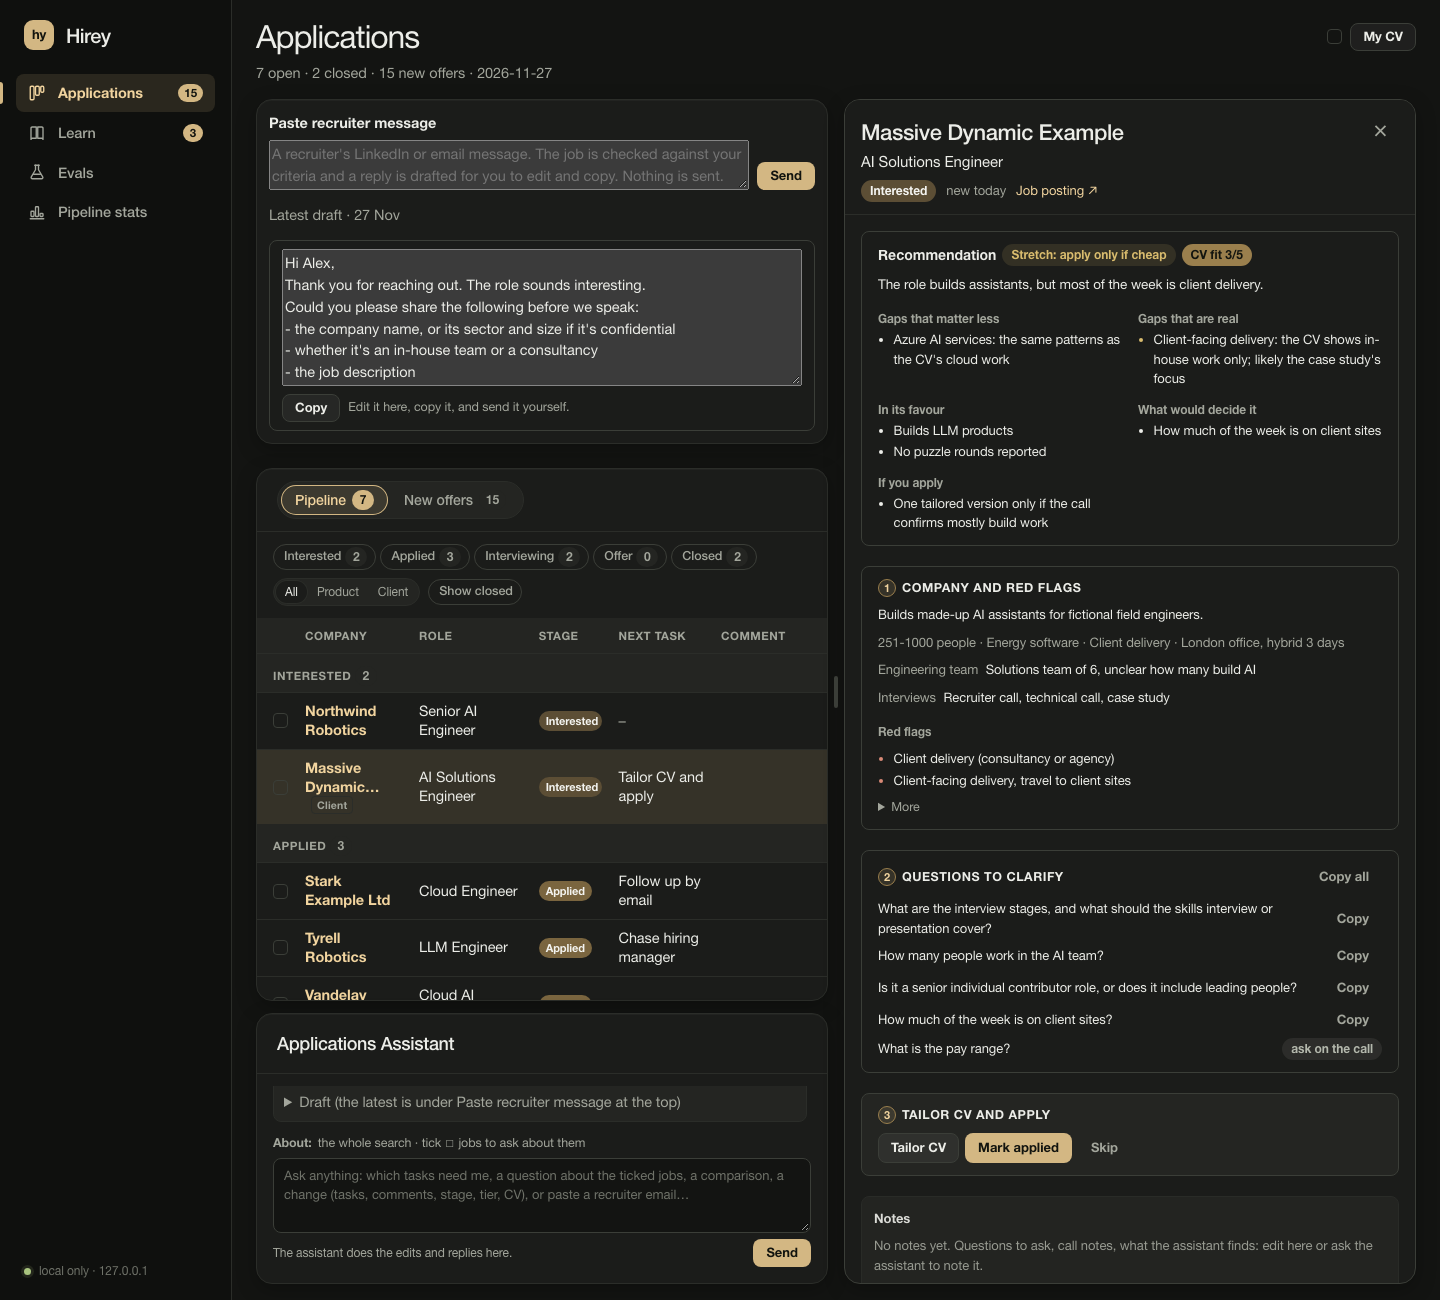
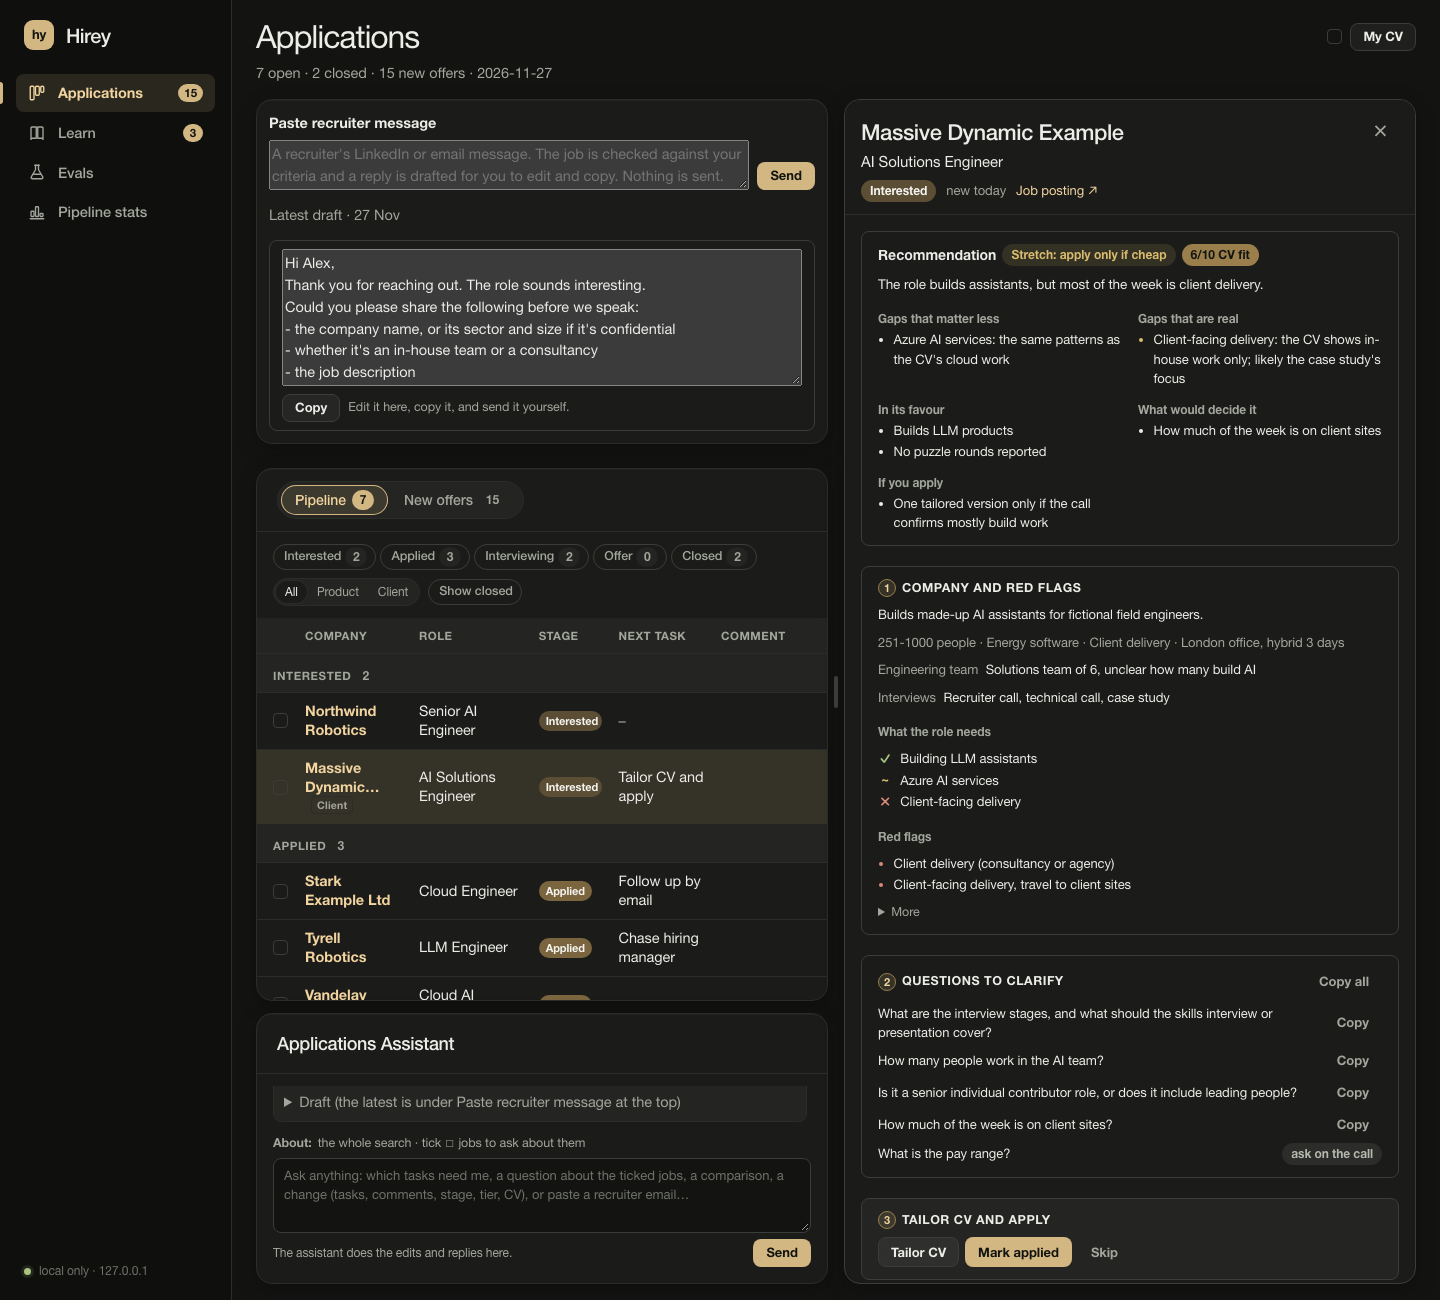
Panel: CV fit out of 10 everywhere; What the role needs as a ✓ / ~ / ✗ checklist
- The panel's fit badges read "8/10 CV fit" (Hirey's 1-5 doubled, as the lists); the 1-5 stays in
  the fit file and cv_fits.
- The fit file's Recommendation gets "### What the role needs": each must-have marked ✓ have,
  ~ partly or ✗ not yet (research.read_need). Section 1 shows it as a checklist; until the fit
  marks them, the brief's must-haves stay plain items.
- Research skill, docs, example data and the two panel screenshots updated.

diff --git a/prep/static/style.css b/prep/static/style.css
@@ -627,6 +627,11 @@ main:has(.apps) { max-width: 1880px; }
 .decide h4 { margin: var(--space-2) 0 0; font-size: 12px; font-weight: 650; color: var(--text-muted); }
 .decide .label { color: var(--text-muted); margin-right: 4px; }
 .decide .needs { margin: 0; padding-left: 1.2em; display: grid; gap: 2px; }
+.decide .needs li.has-mark { list-style: none; margin-left: -1.2em; display: flex; gap: 8px; }
+.need-mark { flex: none; width: 1.1em; text-align: center; font-weight: 700; }
+.need-have { color: var(--success); }
+.need-partly { color: var(--warning); }
+.need-not { color: var(--danger); }
 .decide .flags { margin: 0; padding-left: 1.2em; display: grid; gap: 2px; }
 .decide .flags li::marker { color: var(--danger); }
 .decide .questions { list-style: none; margin: 0; padding: 0; display: grid; gap: 4px; }

diff --git a/prep/web.py b/prep/web.py
@@ -2268,7 +2268,8 @@ def _offer_panel(settings: Settings, conn: sqlite3.Connection, job: dict, decisi
         f'<a class="panel-close btn btn-ghost btn-sm" href="{h(close)}" aria-label="Close" data-close-panel>✕</a></span></header>'
         '<div class="panel-body">'
         + _recommendation(fit, busy)
-        + _decide_company(profile, check, kind, brief, flags, busy, _fit_line(fit, busy and fit is None), more)
+        + _decide_company(profile, check, kind, brief, flags, busy, _fit_line(fit, busy and fit is None), more,
+                          _marked_needs(fit))
         + _decide_questions(decision_.call_questions(profile, gates, brief["facts"] if brief else ""),
                             f'j{job["id"]}', copy=False)
         + apply
@@ -2954,7 +2955,7 @@ def _panel(settings: Settings, conn: sqlite3.Connection, r: dict, today: str, f:
         f'<div class="panel-body">'
         + _recommendation(found["fit"], "cv_fit" in found["open"])
         + _decide_company(found["profile"], check, kind, brief, flags, researching,
-                          _fit_line(found["fit"], "cv_fit" in found["open"]), more)
+                          _fit_line(found["fit"], "cv_fit" in found["open"]), more, _marked_needs(found["fit"]))
         + _decide_questions(view["questions"], f'a{app["id"]}',
                             _panel_draft(conn, app["id"]) + _invite_card(conn, settings, app, today, here))
         + _decide_apply(conn, app, found, versions, here, settings.private_dir)
@@ -2967,6 +2968,20 @@ def _panel(settings: Settings, conn: sqlite3.Connection, r: dict, today: str, f:
 
 
 EMPLOYER_WORDS = {"product": "Product company", "client": "Client delivery"}
+NEED_SIGNS = {"have": ("✓", "have"), "partly": ("~", "partly"), "not": ("✗", "not yet")}
+
+
+def _needs_list(needs: list[dict]) -> str:
+    """What the role needs as a checklist: each need with its mark (✓ have, ~ partly, ✗ not yet; the screen
+    reader hears the word), or a plain item while it has none."""
+    items = []
+    for need in needs:
+        sign = NEED_SIGNS.get(need.get("mark") or "")
+        mark = (f'<span class="need-mark need-{h(need["mark"])}" aria-label="{sign[1]}" title="{sign[1]}">{sign[0]}</span>'
+                if sign else "")
+        cls = ' class="has-mark"' if sign else ""
+        items.append(f'<li{cls}>{mark}<span>{h(need["text"])}</span></li>')
+    return f'<h4>What the role needs</h4><ul class="needs">{"".join(items)}</ul>'
 VERDICT_TONES = {"apply": "success", "stretch": "warning", "skip": "danger"}
 REC_LABELS = {"soft": "Gaps that matter less", "real": "Gaps that are real", "favour": "In its favour",
               "decide": "What would decide it", "effort": "If you apply"}
@@ -2983,7 +2998,7 @@ def _recommendation(fit: dict | None, busy: bool) -> str:
                     '<span class="spinner" aria-hidden="true"></span>Recommendation: written with the CV fit…</p></section>')
         return ""
     head = (f'<h3 id="decide-rec">Recommendation {_badge(research.VERDICTS[rec["verdict"]], VERDICT_TONES[rec["verdict"]])}'
-            f' {_badge("CV fit " + str(fit["score"]) + "/5", _fit_tone(fit["score"]))}</h3>')
+            f' {_badge(_fit_text(fit), _fit_tone(fit["score"]))}</h3>')
     why = f'<p class="rec-why">{h(rec["why"])}</p>' if rec.get("why") else ""
     parts = "".join(f'<div class="rec-part rec-{key}"><h4>{h(label)}</h4><ul>'
                     + "".join(f"<li>{h(x)}</li>" for x in rec[key]) + "</ul></div>"
@@ -2993,20 +3008,31 @@ def _recommendation(fit: dict | None, busy: bool) -> str:
 
 
 def _fit_line(fit: dict | None, busy: bool) -> str:
-    """The CV fit as a badge for section 1 ("CV fit 4/5"), or "Checking CV fit…" while it is queued. Nothing
+    """The CV fit as a badge for section 1 ("8/10 CV fit"), or "Checking CV fit…" while it is queued. Nothing
     when the recommendation above already shows the score."""
     if busy:
         return '<span class="muted"><span class="spinner" aria-hidden="true"></span>Checking CV fit…</span>'
     if not fit or fit.get("recommendation"):
         return ""
-    return _badge(f'CV fit {fit["score"]}/5', _fit_tone(fit["score"]))
+    return _badge(_fit_text(fit), _fit_tone(fit["score"]))
+
+
+def _marked_needs(fit: dict | None) -> list[dict] | None:
+    """The CV fit's "What the role needs" checklist (its recommendation's `needs`), or None."""
+    return ((fit or {}).get("recommendation") or {}).get("needs") or None
+
+
+def _fit_text(fit: dict) -> str:
+    """The CV fit out of 10, as the lists show it ("8/10 CV fit"): Hirey's 1-5 doubled (search.fit_on_ten)."""
+    return f'{search.fit_on_ten(fit["score"])}/10 CV fit'
 
 
 def _decide_company(profile: dict | None, check: dict | None, kind: str | None, brief: dict | None, flags: list[str],
-                    busy: bool, fit: str, more: str) -> str:
+                    busy: bool, fit: str, more: str, marked: list[dict] | None = None) -> str:
     """1. Company and red flags: what the company does, one line of facts (size, sector, product or client
-    work, where), the engineering team and the interview style, the brief's key facts and what the role needs
-    (its must-haves), then the red flags.
+    work, where), the engineering team and the interview style, the brief's key facts and what the role needs:
+    the CV fit's checklist (`marked`: ✓ have / ~ partly / ✗ not yet, _needs_list) when it has one, else the
+    brief's must-haves as plain items; then the red flags.
     "Researching…" while the research or the brief is being written. More: the full brief, research and fit."""
     lines = []
     if profile and profile["what_it_does"]:
@@ -3027,10 +3053,9 @@ def _decide_company(profile: dict | None, check: dict | None, kind: str | None, 
     if brief:
         chips = "".join(f'<span class="fact">{h(x.strip())}</span>' for x in brief["facts"].split("·") if x.strip())
         lines.append(f'<p class="brief-facts" aria-label="Key facts">{chips}</p>')
-        needs = decision_.role_needs(brief["brief"])
-        if needs:
-            lines.append('<h4>What the role needs</h4><ul class="needs">'
-                         + "".join(f"<li>{h(x)}</li>" for x in needs) + "</ul>")
+    needs = marked or ([{"mark": None, "text": x} for x in decision_.role_needs(brief["brief"])] if brief else [])
+    if needs:
+        lines.append(_needs_list(needs))
     if fit:
         lines.append(f'<p>{fit}</p>')
     if busy:
@@ -3246,7 +3271,7 @@ def _fit_card(app: dict, found: dict, here: str) -> str:
     fit = found["fit"]
     gaps = ('<ul class="gaps">' + "".join(f"<li>{h(g)}</li>" for g in fit["top_gaps"]) + "</ul>") if fit["top_gaps"] else ""
     actions = _open_link(app["id"], "cv_fit") + ("" if "cv_fit" in found["open"] else _redo(app["id"], "cv_fit", here))
-    meta = f' {_badge(str(fit["score"]) + "/5", _fit_tone(fit["score"]))} <span class="mono muted">{h(fit["checked_at"])}</span>'
+    meta = f' {_badge(_fit_text(fit), _fit_tone(fit["score"]))} <span class="mono muted">{h(fit["checked_at"])}</span>'
     return _artifact("card-fit", "CV fit", meta, actions, gaps)
 
 

diff --git a/tests/test_decision.py b/tests/test_decision.py
@@ -38,6 +38,12 @@ Verdict: Stretch: apply only if cheap — two real gaps, but it builds agents an
 
 ### If you apply
 - One tailored version; lead with the evals work; do not claim multi-agent production
+
+### What the role needs
+- ✓ Shipping LLM features to production
+- ~ Benchmarking LLMs (evals on a labelled set)
+- ✗ Multi-agent systems in production
+- Insurance domain knowledge
 """
 
 
@@ -51,6 +57,8 @@ class RecommendationParseTest(IsolatedTestCase):
         self.assertEqual(rec["favour"][1], "Presentation interview, no puzzle rounds")
         self.assertEqual(len(rec["decide"]), 1)
         self.assertTrue(rec["effort"][0].startswith("One tailored version"))
+        self.assertEqual([n["mark"] for n in rec["needs"]], ["have", "partly", "not", None])
+        self.assertEqual(rec["needs"][1]["text"], "Benchmarking LLMs (evals on a labelled set)")
 
     def test_none_without_a_section_and_a_verdict_is_required(self) -> None:
         self.assertIsNone(research.read_recommendation("## Fit summary\nx"))
@@ -136,7 +144,15 @@ class OfferPanelTest(WebTestCase):
         panel = self.panel(job_url(WONKA))
         rec = panel[panel.index('class="decide decide-rec"'):panel.index('class="decide decide-company"')]
         self.assertIn("Stretch: apply only if cheap", rec)
-        self.assertIn("CV fit 3/5", rec)
+        self.assertIn("6/10 CV fit", rec)  # out of 10, as the lists; the 1-5 stays in the fit file
+        self.assertNotIn("3/5", panel)
+        company = panel[panel.index('class="decide decide-company"'):panel.index('class="decide decide-questions"')]
+        self.assertIn('<li class="has-mark"><span class="need-mark need-have" aria-label="have" title="have">✓</span>'
+                      '<span>Shipping LLM features to production</span></li>', company)
+        self.assertIn('need-partly', company)
+        self.assertIn('need-not', company)
+        self.assertIn("<li><span>Insurance domain knowledge</span></li>", company)  # no mark yet: a plain item
+        self.assertNotIn("What the role needs", rec)  # in section 1, not repeated in the recommendation
         self.assertIn("Gaps that are real", rec)
         self.assertIn("Whether the interview probes &lt;model internals&gt;", rec)  # escaped
 

diff --git a/prep/research.py b/prep/research.py
@@ -170,10 +170,22 @@ def read_fit(path: Path) -> dict:
 
 # The recommendation in a fit file (27 Nov 2026): "## Recommendation", a "Verdict: <Apply | Stretch | Skip> — why"
 # line, then "### <part>" headings with "-" bullets. The part headings are matched by their first words.
+# "### What the role needs" is the checklist the panel shows in section 1: each bullet starts with a mark,
+# ✓ have, ~ partly or ✗ not yet (NEED_MARKS), then a few plain words.
 VERDICTS = {"apply": "Apply", "stretch": "Stretch: apply only if cheap", "skip": "Skip"}
 REC_PARTS = (("soft", "gaps that matter less"), ("real", "gaps that are real"), ("favour", "in its favour"),
-             ("decide", "what would decide"), ("effort", "if you apply"))
+             ("decide", "what would decide"), ("effort", "if you apply"), ("needs", "what the role needs"))
 MAX_REC_ITEMS = 5
+NEED_MARKS = {"✓": "have", "✔": "have", "~": "partly", "≈": "partly", "✗": "not", "✘": "not", "x": "not"}
+_NEED = re.compile(r"^([✓✔~≈✗✘]|x(?=\s))\s*(.*)$", re.IGNORECASE)
+
+
+def read_need(text: str) -> dict:
+    """{"mark": have / partly / not / None, "text"} from one "What the role needs" bullet ("✓ Python in production")."""
+    found = _NEED.match(text.strip())
+    if not found:
+        return {"mark": None, "text": text.strip()}
+    return {"mark": NEED_MARKS[found.group(1).lower()], "text": found.group(2).strip()}
 
 
 def read_recommendation(body: str) -> dict | None:
@@ -207,7 +219,8 @@ def read_recommendation(body: str) -> dict | None:
             continue
         item = re.match(r"^\s*[-*]\s+(.*\S)", line)
         if item and part and len(rec[part]) < MAX_REC_ITEMS:
-            rec[part].append(item.group(1).replace("**", "").strip())
+            text = item.group(1).replace("**", "").strip()
+            rec[part].append(read_need(text) if part == "needs" else text)
     if rec["verdict"] is None:
         raise ValueError('the "## Recommendation" section needs a "Verdict: Apply | Stretch | Skip — why" line')
     return rec

diff --git a/tests/test_research.py b/tests/test_research.py
@@ -353,7 +353,8 @@ class DashboardTest(WebTestCase):
         self.save_both()
         panel = self.panel(self.MDE)
         self.assertNotIn("CV fit", self.shortcuts(panel))  # primary actions only: the result is in section 1
-        self.assertIn("CV fit 4/5", self.company(panel))
+        self.assertIn("8/10 CV fit", self.company(panel))  # out of 10, as the lists
+        self.assertNotIn("4/5", panel)
         self.assertIn(">Tailor CV</button>", self.shortcuts(panel))
         company = panel[panel.index('id="card-research"'):panel.index('id="card-fit"')]
         self.assertIn(">Tier A</span></p>", company)  # the fixture's tier A, not the research's B: no B reason

diff --git a/docs/reference/dashboard.md b/docs/reference/dashboard.md
@@ -223,12 +223,14 @@ recruiter call, then Tailor CV and apply. Top to bottom (`web._panel`):
 1. **Header**: company, role, stage badge with interview step dots, "N days in this stage", the job
    posting link, the "closed" badge when it applies, ✕ to the same view without `app`.
 2. **Recommendation** (`web._recommendation`), from the CV fit's "## Recommendation" section: the verdict
-   (Apply, Stretch: apply only if cheap, Skip) with its sentence and the CV fit score, then short lists:
+   (Apply, Stretch: apply only if cheap, Skip) with its sentence and the CV fit out of 10 ("8/10 CV fit", the
+   1-5 doubled, as in the lists), then short lists:
    gaps that matter less, gaps that are real, in its favour, what would decide it, if you apply
    ([research.md](research.md#the-recommendation)). "Written with the CV fit…" while the fit is queued.
 3. **1. Company and red flags** (`web._decide_company`): what the company does, one facts line (size,
    sector, "Product company" or "Client delivery", where), the engineering team and the interview style,
-   the job brief's key facts and "What the role needs" (its Must-haves), the CV fit badge, then the red
+   the job brief's key facts and "What the role needs": the CV fit's checklist (✓ have, ~ partly, ✗ not yet;
+   `web._needs_list`), or the brief's Must-haves as plain items until the fit marks them; the CV fit badge, then the red
    flags ([how they are built](#red-flags-and-questions)). "Researching…" while the company research or
    the brief is being written. **More** holds the full brief (with Write brief / Redo brief and Show
    original), the company research card and the CV fit card, each with Open and Redo.

diff --git a/.claude/skills/research/SKILL.md b/.claude/skills/research/SKILL.md
@@ -237,6 +237,11 @@ Verdict: Stretch: apply only if cheap — two real gaps, but it builds agents an
 
 ### If you apply
 - One tailored version; lead with the evals work; do not claim multi-agent production
+
+### What the role needs
+- ✓ Shipping LLM features to production
+- ~ Benchmarking LLMs (evals on a labelled set; no safety monitoring)
+- ✗ Multi-agent systems in production (personal project only)
 ```
 
 (The example is made up.) **The recommendation** is what the user reads first in the job's panel to decide.
@@ -251,6 +256,9 @@ Write it with the criteria file open (path in the packet; never copy its pay fig
 - **In its favour**: the ranking signals it meets, by the criteria.
 - **What would decide it**: the one or two things to check on the recruiter call or in the first interview.
 - **If you apply**: how much effort it is worth (one tailored version, what to lead with, what not to claim).
+- **What the role needs**: the 3-5 must-haves in the posting's words, each starting with `✓` have, `~` partly
+  or `✗` not yet, then a few plain words (no cv.md quotes). The panel shows it as the checklist in section 1,
+  the same marks as the tailoring plan; a need without a mark shows as a plain item.
 
 Honest and plain: no flattery, no invented strengths; every claim traces to `cv.md` or the facts bank, as the
 fit itself. At most 5 bullets per part. Never pay.

diff --git a/docs/reference/research.md b/docs/reference/research.md
@@ -124,13 +124,19 @@ Verdict: Stretch: apply only if cheap — one sentence why.
 ### In its favour (by the criteria)
 ### What would decide it
 ### If you apply
+### What the role needs
+- ✓ a must-have, a few plain words   (~ partly, ✗ not yet)
 ```
 
 - The verdict is Apply, Stretch (shown "Stretch: apply only if cheap") or Skip (`research.VERDICTS`); a
   section without one is refused. Parts are matched by their first words, at most 5 bullets each.
 - The skill weighs the gaps against the criteria's ranking; the gap count alone never decides it. Claims
   trace to cv.md or the facts bank, as in the fit; pay is refused.
+- "What the role needs" bullets start with a mark (`research.read_need`: ✓ have, ~ partly, ✗ not yet; a
+  bullet without one has no mark). The panel shows them as section 1's checklist, not in the recommendation.
 - A fit file without the section saves as before (no recommendation).
+- The panel shows every fit out of 10, as the lists do (`search.fit_on_ten`: the 1-5 doubled); the 1-5 stays
+  in the fit file and `cv_fits`.
 
 ### A job offer's CV fit
 
